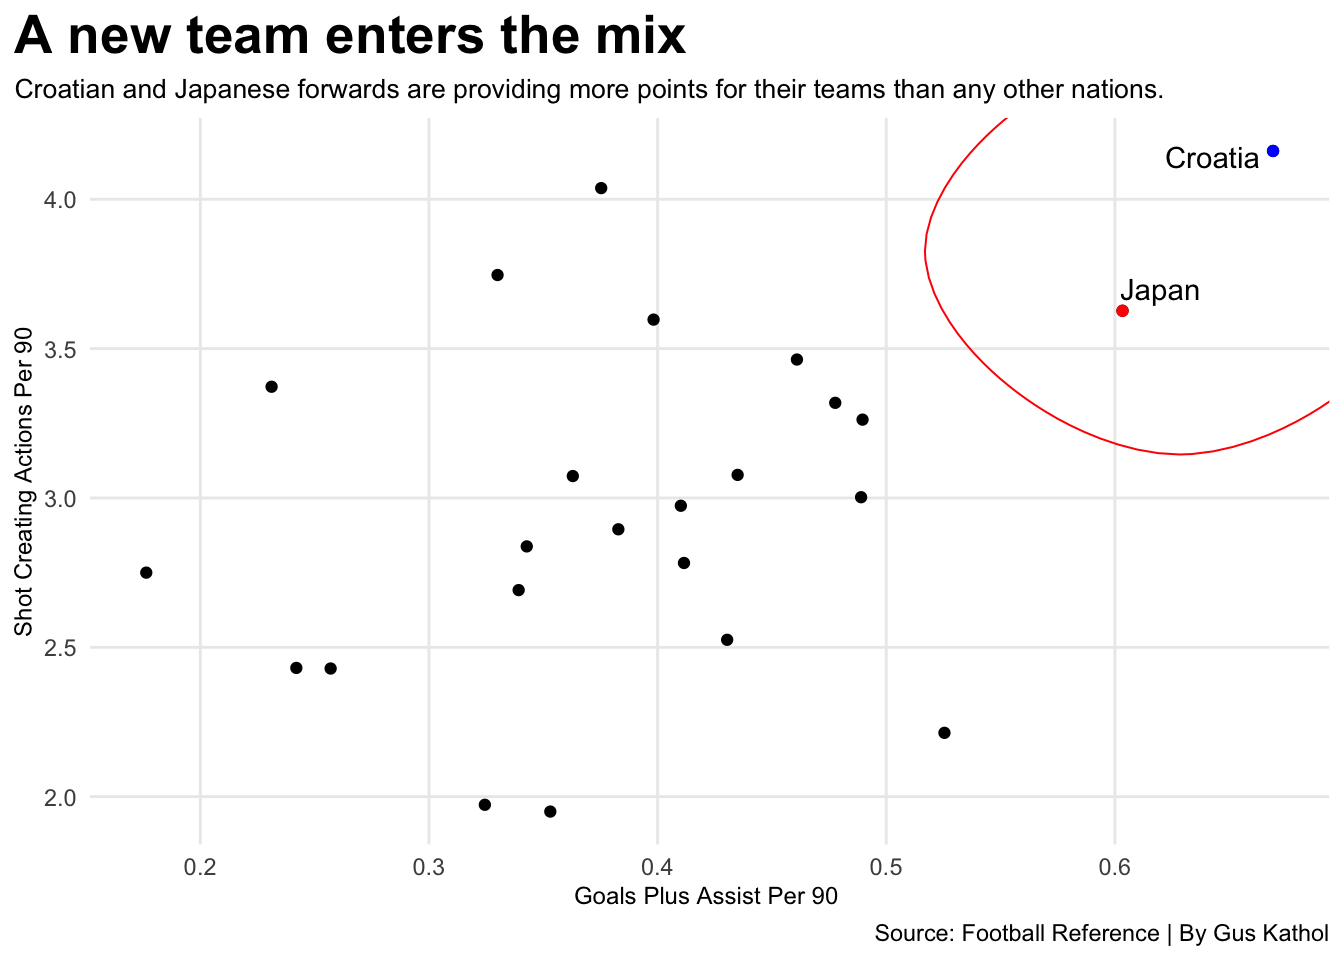
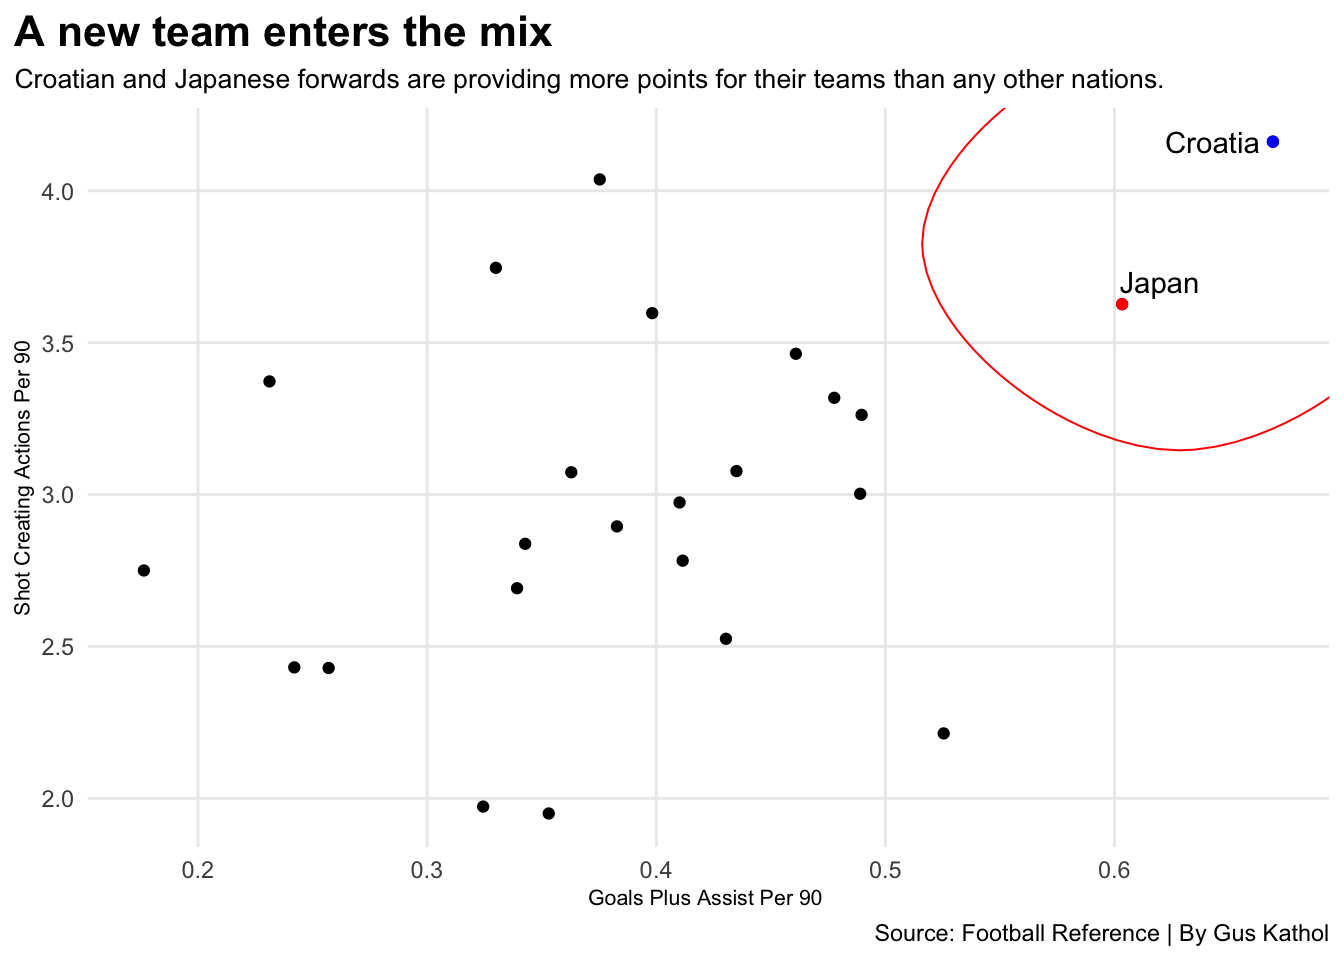
Final Draft 2

diff --git a/posts/nation-best-attacking-players/index.html b/posts/nation-best-attacking-players/index.html
@@ -341,8 +341,8 @@ pre > code.sourceCode > span > a:first-child::before { text-decoration: underlin
 <span id="cb2-18"><a href="#cb2-18" aria-hidden="true" tabindex="-1"></a>    <span class="at">caption=</span><span class="st">"Source: Football Reference | By Gus Kathol"</span></span>
 <span id="cb2-19"><a href="#cb2-19" aria-hidden="true" tabindex="-1"></a>    ) <span class="sc">+</span></span>
 <span id="cb2-20"><a href="#cb2-20" aria-hidden="true" tabindex="-1"></a>  <span class="fu">theme</span>(</span>
-<span id="cb2-21"><a href="#cb2-21" aria-hidden="true" tabindex="-1"></a>    <span class="at">plot.title =</span> <span class="fu">element_text</span>(<span class="at">size =</span> <span class="dv">20</span>, <span class="at">face =</span> <span class="st">"bold"</span>),</span>
-<span id="cb2-22"><a href="#cb2-22" aria-hidden="true" tabindex="-1"></a>    <span class="at">axis.title =</span> <span class="fu">element_text</span>(<span class="at">size =</span> <span class="dv">9</span>), </span>
+<span id="cb2-21"><a href="#cb2-21" aria-hidden="true" tabindex="-1"></a>    <span class="at">plot.title =</span> <span class="fu">element_text</span>(<span class="at">size =</span> <span class="dv">16</span>, <span class="at">face =</span> <span class="st">"bold"</span>),</span>
+<span id="cb2-22"><a href="#cb2-22" aria-hidden="true" tabindex="-1"></a>    <span class="at">axis.title =</span> <span class="fu">element_text</span>(<span class="at">size =</span> <span class="dv">8</span>), </span>
 <span id="cb2-23"><a href="#cb2-23" aria-hidden="true" tabindex="-1"></a>    <span class="at">plot.subtitle =</span> <span class="fu">element_text</span>(<span class="at">size=</span><span class="dv">10</span>), </span>
 <span id="cb2-24"><a href="#cb2-24" aria-hidden="true" tabindex="-1"></a>    <span class="at">panel.grid.minor =</span> <span class="fu">element_blank</span>(),</span>
 <span id="cb2-25"><a href="#cb2-25" aria-hidden="true" tabindex="-1"></a>    <span class="at">plot.title.position =</span> <span class="st">"plot"</span></span>
@@ -405,23 +405,23 @@ pre > code.sourceCode > span > a:first-child::before { text-decoration: underlin
 </details>
 <div class="cell-output-display">
 <div>
-<div id="hxvmkbrnsi" style="padding-left:0px;padding-right:0px;padding-top:10px;padding-bottom:10px;overflow-x:auto;overflow-y:auto;width:auto;height:auto;">
-<style>#hxvmkbrnsi table {
+<div id="nljssetjvk" style="padding-left:0px;padding-right:0px;padding-top:10px;padding-bottom:10px;overflow-x:auto;overflow-y:auto;width:auto;height:auto;">
+<style>#nljssetjvk table {
   font-family: system-ui, 'Segoe UI', Roboto, Helvetica, Arial, sans-serif, 'Apple Color Emoji', 'Segoe UI Emoji', 'Segoe UI Symbol', 'Noto Color Emoji';
   -webkit-font-smoothing: antialiased;
   -moz-osx-font-smoothing: grayscale;
 }
 
-#hxvmkbrnsi thead, #hxvmkbrnsi tbody, #hxvmkbrnsi tfoot, #hxvmkbrnsi tr, #hxvmkbrnsi td, #hxvmkbrnsi th {
+#nljssetjvk thead, #nljssetjvk tbody, #nljssetjvk tfoot, #nljssetjvk tr, #nljssetjvk td, #nljssetjvk th {
   border-style: none;
 }
 
-#hxvmkbrnsi p {
+#nljssetjvk p {
   margin: 0;
   padding: 0;
 }
 
-#hxvmkbrnsi .gt_table {
+#nljssetjvk .gt_table {
   display: table;
   border-collapse: collapse;
   line-height: normal;
@@ -447,12 +447,12 @@ pre > code.sourceCode > span > a:first-child::before { text-decoration: underlin
   border-left-color: #D3D3D3;
 }
 
-#hxvmkbrnsi .gt_caption {
+#nljssetjvk .gt_caption {
   padding-top: 4px;
   padding-bottom: 4px;
 }
 
-#hxvmkbrnsi .gt_title {
+#nljssetjvk .gt_title {
   color: #333333;
   font-size: 125%;
   font-weight: initial;
@@ -464,7 +464,7 @@ pre > code.sourceCode > span > a:first-child::before { text-decoration: underlin
   border-bottom-width: 0;
 }
 
-#hxvmkbrnsi .gt_subtitle {
+#nljssetjvk .gt_subtitle {
   color: #333333;
   font-size: 85%;
   font-weight: initial;
@@ -476,7 +476,7 @@ pre > code.sourceCode > span > a:first-child::before { text-decoration: underlin
   border-top-width: 0;
 }
 
-#hxvmkbrnsi .gt_heading {
+#nljssetjvk .gt_heading {
   background-color: #FFFFFF;
   text-align: center;
   border-bottom-color: #FFFFFF;
@@ -488,13 +488,13 @@ pre > code.sourceCode > span > a:first-child::before { text-decoration: underlin
   border-right-color: #D3D3D3;
 }
 
-#hxvmkbrnsi .gt_bottom_border {
+#nljssetjvk .gt_bottom_border {
   border-bottom-style: none;
   border-bottom-width: 2px;
   border-bottom-color: #D3D3D3;
 }
 
-#hxvmkbrnsi .gt_col_headings {
+#nljssetjvk .gt_col_headings {
   border-top-style: none;
   border-top-width: 2px;
   border-top-color: #D3D3D3;
@@ -509,7 +509,7 @@ pre > code.sourceCode > span > a:first-child::before { text-decoration: underlin
   border-right-color: #D3D3D3;
 }
 
-#hxvmkbrnsi .gt_col_heading {
+#nljssetjvk .gt_col_heading {
   color: #333333;
   background-color: #FFFFFF;
   font-size: 100%;
@@ -529,7 +529,7 @@ pre > code.sourceCode > span > a:first-child::before { text-decoration: underlin
   overflow-x: hidden;
 }
 
-#hxvmkbrnsi .gt_column_spanner_outer {
+#nljssetjvk .gt_column_spanner_outer {
   color: #333333;
   background-color: #FFFFFF;
   font-size: 100%;
@@ -541,15 +541,15 @@ pre > code.sourceCode > span > a:first-child::before { text-decoration: underlin
   padding-right: 4px;
 }
 
-#hxvmkbrnsi .gt_column_spanner_outer:first-child {
+#nljssetjvk .gt_column_spanner_outer:first-child {
   padding-left: 0;
 }
 
-#hxvmkbrnsi .gt_column_spanner_outer:last-child {
+#nljssetjvk .gt_column_spanner_outer:last-child {
   padding-right: 0;
 }
 
-#hxvmkbrnsi .gt_column_spanner {
+#nljssetjvk .gt_column_spanner {
   border-bottom-style: none;
   border-bottom-width: 2px;
   border-bottom-color: #D3D3D3;
@@ -561,11 +561,11 @@ pre > code.sourceCode > span > a:first-child::before { text-decoration: underlin
   width: 100%;
 }
 
-#hxvmkbrnsi .gt_spanner_row {
+#nljssetjvk .gt_spanner_row {
   border-bottom-style: hidden;
 }
 
-#hxvmkbrnsi .gt_group_heading {
+#nljssetjvk .gt_group_heading {
   padding-top: 8px;
   padding-bottom: 8px;
   padding-left: 5px;
@@ -591,7 +591,7 @@ pre > code.sourceCode > span > a:first-child::before { text-decoration: underlin
   text-align: left;
 }
 
-#hxvmkbrnsi .gt_empty_group_heading {
+#nljssetjvk .gt_empty_group_heading {
   padding: 0.5px;
   color: #333333;
   background-color: #FFFFFF;
@@ -606,15 +606,15 @@ pre > code.sourceCode > span > a:first-child::before { text-decoration: underlin
   vertical-align: middle;
 }
 
-#hxvmkbrnsi .gt_from_md > :first-child {
+#nljssetjvk .gt_from_md > :first-child {
   margin-top: 0;
 }
 
-#hxvmkbrnsi .gt_from_md > :last-child {
+#nljssetjvk .gt_from_md > :last-child {
   margin-bottom: 0;
 }
 
-#hxvmkbrnsi .gt_row {
+#nljssetjvk .gt_row {
   padding-top: 8px;
   padding-bottom: 8px;
   padding-left: 5px;
@@ -633,7 +633,7 @@ pre > code.sourceCode > span > a:first-child::before { text-decoration: underlin
   overflow-x: hidden;
 }
 
-#hxvmkbrnsi .gt_stub {
+#nljssetjvk .gt_stub {
   color: #333333;
   background-color: #FFFFFF;
   font-size: 100%;
@@ -646,7 +646,7 @@ pre > code.sourceCode > span > a:first-child::before { text-decoration: underlin
   padding-right: 5px;
 }
 
-#hxvmkbrnsi .gt_stub_row_group {
+#nljssetjvk .gt_stub_row_group {
   color: #333333;
   background-color: #FFFFFF;
   font-size: 100%;
@@ -660,15 +660,15 @@ pre > code.sourceCode > span > a:first-child::before { text-decoration: underlin
   vertical-align: top;
 }
 
-#hxvmkbrnsi .gt_row_group_first td {
+#nljssetjvk .gt_row_group_first td {
   border-top-width: 2px;
 }
 
-#hxvmkbrnsi .gt_row_group_first th {
+#nljssetjvk .gt_row_group_first th {
   border-top-width: 2px;
 }
 
-#hxvmkbrnsi .gt_summary_row {
+#nljssetjvk .gt_summary_row {
   color: #333333;
   background-color: #FFFFFF;
   text-transform: inherit;
@@ -678,16 +678,16 @@ pre > code.sourceCode > span > a:first-child::before { text-decoration: underlin
   padding-right: 5px;
 }
 
-#hxvmkbrnsi .gt_first_summary_row {
+#nljssetjvk .gt_first_summary_row {
   border-top-style: none;
   border-top-color: #D3D3D3;
 }
 
-#hxvmkbrnsi .gt_first_summary_row.thick {
+#nljssetjvk .gt_first_summary_row.thick {
   border-top-width: 2px;
 }
 
-#hxvmkbrnsi .gt_last_summary_row {
+#nljssetjvk .gt_last_summary_row {
   padding-top: 8px;
   padding-bottom: 8px;
   padding-left: 5px;
@@ -697,7 +697,7 @@ pre > code.sourceCode > span > a:first-child::before { text-decoration: underlin
   border-bottom-color: #D3D3D3;
 }
 
-#hxvmkbrnsi .gt_grand_summary_row {
+#nljssetjvk .gt_grand_summary_row {
   color: #333333;
   background-color: #FFFFFF;
   text-transform: inherit;
@@ -707,7 +707,7 @@ pre > code.sourceCode > span > a:first-child::before { text-decoration: underlin
   padding-right: 5px;
 }
 
-#hxvmkbrnsi .gt_first_grand_summary_row {
+#nljssetjvk .gt_first_grand_summary_row {
   padding-top: 8px;
   padding-bottom: 8px;
   padding-left: 5px;
@@ -717,7 +717,7 @@ pre > code.sourceCode > span > a:first-child::before { text-decoration: underlin
   border-top-color: #D3D3D3;
 }
 
-#hxvmkbrnsi .gt_last_grand_summary_row_top {
+#nljssetjvk .gt_last_grand_summary_row_top {
   padding-top: 8px;
   padding-bottom: 8px;
   padding-left: 5px;
@@ -727,11 +727,11 @@ pre > code.sourceCode > span > a:first-child::before { text-decoration: underlin
   border-bottom-color: #D3D3D3;
 }
 
-#hxvmkbrnsi .gt_striped {
+#nljssetjvk .gt_striped {
   background-color: rgba(128, 128, 128, 0.05);
 }
 
-#hxvmkbrnsi .gt_table_body {
+#nljssetjvk .gt_table_body {
   border-top-style: none;
   border-top-width: 2px;
   border-top-color: #D3D3D3;
@@ -740,7 +740,7 @@ pre > code.sourceCode > span > a:first-child::before { text-decoration: underlin
   border-bottom-color: #D3D3D3;
 }
 
-#hxvmkbrnsi .gt_footnotes {
+#nljssetjvk .gt_footnotes {
   color: #333333;
   background-color: #FFFFFF;
   border-bottom-style: none;
@@ -754,7 +754,7 @@ pre > code.sourceCode > span > a:first-child::before { text-decoration: underlin
   border-right-color: #D3D3D3;
 }
 
-#hxvmkbrnsi .gt_footnote {
+#nljssetjvk .gt_footnote {
   margin: 0px;
   font-size: 90%;
   padding-top: 4px;
@@ -763,7 +763,7 @@ pre > code.sourceCode > span > a:first-child::before { text-decoration: underlin
   padding-right: 5px;
 }
 
-#hxvmkbrnsi .gt_sourcenotes {
+#nljssetjvk .gt_sourcenotes {
   color: #333333;
   background-color: #FFFFFF;
   border-bottom-style: none;
@@ -777,7 +777,7 @@ pre > code.sourceCode > span > a:first-child::before { text-decoration: underlin
   border-right-color: #D3D3D3;
 }
 
-#hxvmkbrnsi .gt_sourcenote {
+#nljssetjvk .gt_sourcenote {
   font-size: 90%;
   padding-top: 4px;
   padding-bottom: 4px;
@@ -785,63 +785,63 @@ pre > code.sourceCode > span > a:first-child::before { text-decoration: underlin
   padding-right: 5px;
 }
 
-#hxvmkbrnsi .gt_left {
+#nljssetjvk .gt_left {
   text-align: left;
 }
 
-#hxvmkbrnsi .gt_center {
+#nljssetjvk .gt_center {
   text-align: center;
 }
 
-#hxvmkbrnsi .gt_right {
+#nljssetjvk .gt_right {
   text-align: right;
   font-variant-numeric: tabular-nums;
 }
 
-#hxvmkbrnsi .gt_font_normal {
+#nljssetjvk .gt_font_normal {
   font-weight: normal;
 }
 
-#hxvmkbrnsi .gt_font_bold {
+#nljssetjvk .gt_font_bold {
   font-weight: bold;
 }
 
-#hxvmkbrnsi .gt_font_italic {
+#nljssetjvk .gt_font_italic {
   font-style: italic;
 }
 
-#hxvmkbrnsi .gt_super {
+#nljssetjvk .gt_super {
   font-size: 65%;
 }
 
-#hxvmkbrnsi .gt_footnote_marks {
+#nljssetjvk .gt_footnote_marks {
   font-size: 75%;
   vertical-align: 0.4em;
   position: initial;
 }
 
-#hxvmkbrnsi .gt_asterisk {
+#nljssetjvk .gt_asterisk {
   font-size: 100%;
   vertical-align: 0;
 }
 
-#hxvmkbrnsi .gt_indent_1 {
+#nljssetjvk .gt_indent_1 {
   text-indent: 5px;
 }
 
-#hxvmkbrnsi .gt_indent_2 {
+#nljssetjvk .gt_indent_2 {
   text-indent: 10px;
 }
 
-#hxvmkbrnsi .gt_indent_3 {
+#nljssetjvk .gt_indent_3 {
   text-indent: 15px;
 }
 
-#hxvmkbrnsi .gt_indent_4 {
+#nljssetjvk .gt_indent_4 {
   text-indent: 20px;
 }
 
-#hxvmkbrnsi .gt_indent_5 {
+#nljssetjvk .gt_indent_5 {
   text-indent: 25px;
 }
 </style>

diff --git a/index.html b/index.html
@@ -205,7 +205,7 @@ window.Quarto = {
 
 <div class="quarto-listing quarto-listing-container-default" id="listing-listing">
 <div class="list quarto-listing-default">
-<div class="quarto-post image-right" data-index="0" data-categories="football,international,forwards" data-listing-date-sort="1714885200000" data-listing-file-modified-sort="1714922839541" data-listing-date-modified-sort="NaN" data-listing-reading-time-sort="7" data-listing-word-count-sort="1386">
+<div class="quarto-post image-right" data-index="0" data-categories="football,international,forwards" data-listing-date-sort="1714885200000" data-listing-file-modified-sort="1714923330729" data-listing-date-modified-sort="NaN" data-listing-reading-time-sort="7" data-listing-word-count-sort="1386">
 <div class="thumbnail">
 <p><a href="./posts/nation-best-attacking-players/index.html" class="no-external"></a></p><a href="./posts/nation-best-attacking-players/index.html" class="no-external">
 <p><img src="./posts/nation-best-attacking-players/Thumbnail.png" class="thumbnail-image"></p>
